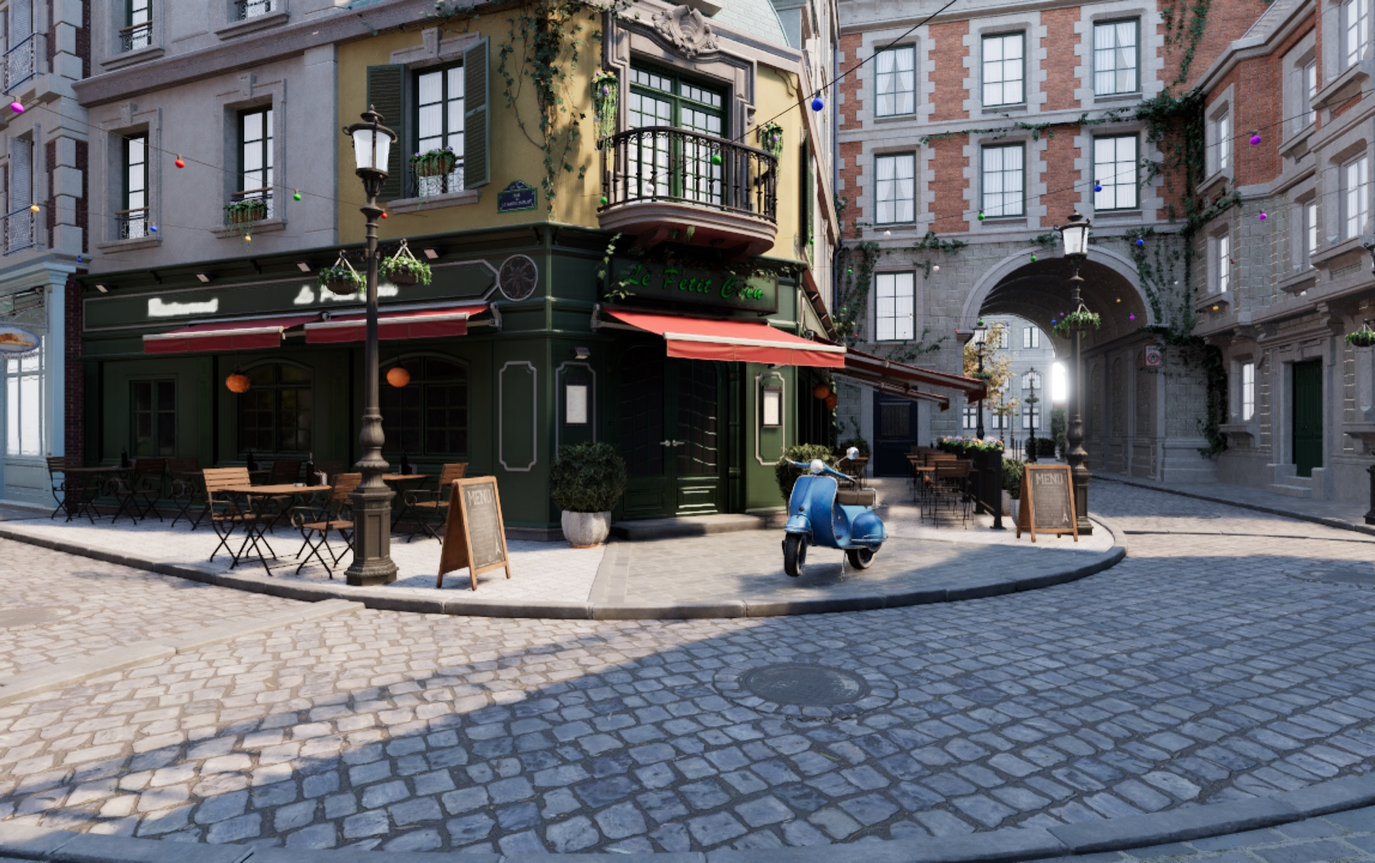
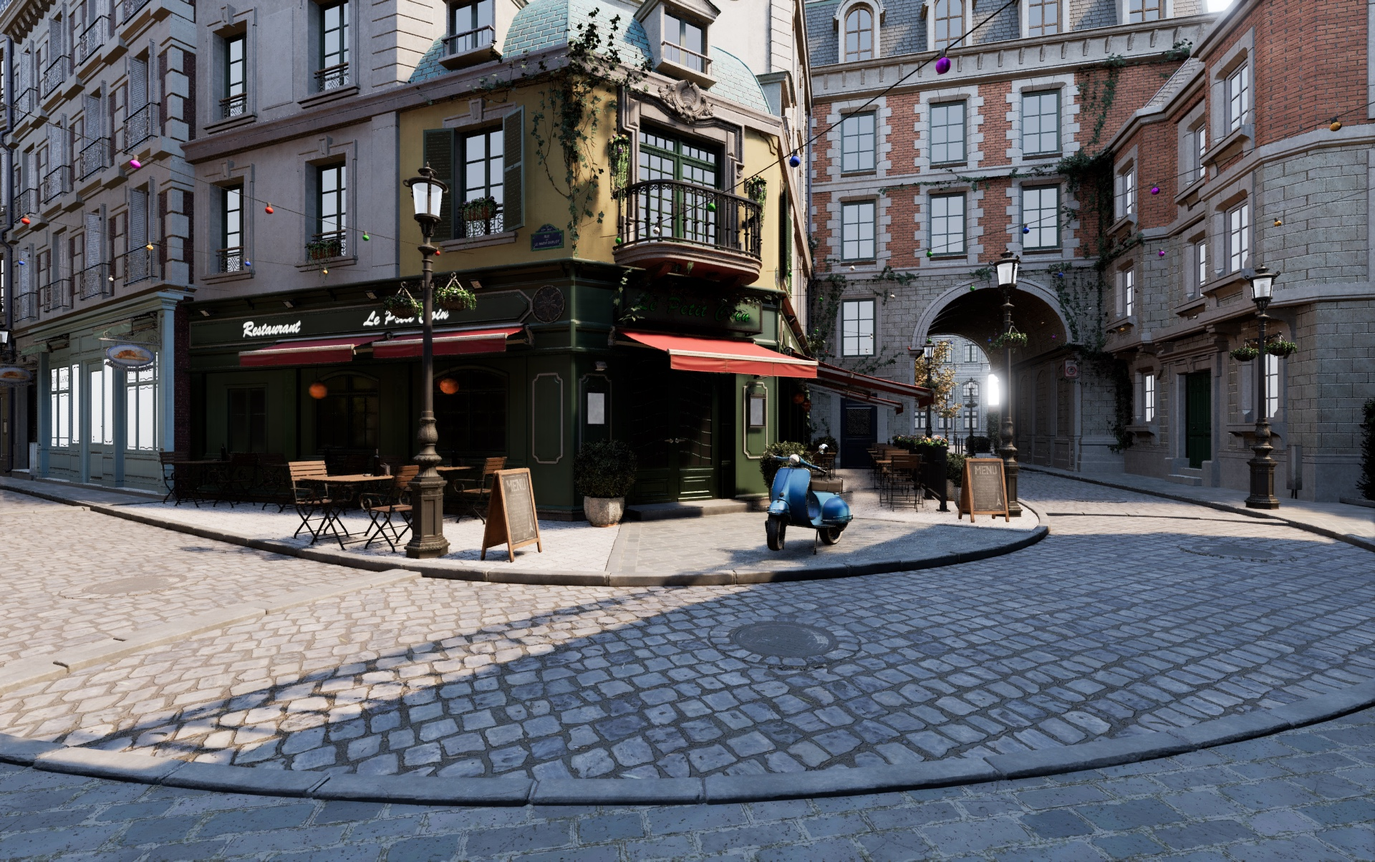
Update Bistro showcase and benchmark

diff --git a/README.md b/README.md
@@ -13,9 +13,9 @@ story, tests, benchmark, and reproducible evidence behind the macOS port.
 
 ![Native Metal path tracing in the Bistro demo](misc/metal_rt_bistro.jpg)
 
-*[Bistro demo](https://github.com/Jamsers/Bistro-Demo-Tweaked) rendered by this fork on Apple Silicon with native Metal ray
-tracing, **4 samples per pixel**, **2 bounces**, and **MetalFX Denoised
-Upscaling enabled**.*
+*[Bistro demo](https://github.com/Jamsers/Bistro-Demo-Tweaked) rendered by the
+current Apple Silicon build with native Metal ray tracing and MetalFX Denoised
+Upscaling enabled.*
 
 ## What it does
 
@@ -71,37 +71,35 @@ hardware, OS, renderer, capability gate, frame-time percentiles, and the GPU
 Pathtracer pass time. Generated results, logs, and builds are intentionally
 ignored.
 
-The results below are two-run means recorded with preview build `de7f299277`
-on 2026-07-18. Each row is one SPP/bounce configuration; the **bold row** is
-the exact **4 SPP / 2 bounce** setup used for the showcase images above.
+The results below are two-run means recorded with build `eeac9e05d` on
+2026-07-22. Each row uses 240 measured frames after warmup at 1920×1080; the
+**bold row** is the **4 SPP / 2 bounce** reference configuration.
 
-| SPP | Bounces | M5 FPS | M5 GPU pass | M3 FPS | M3 GPU pass | M5 vs M3 |
-| ---: | ---: | ---: | ---: | ---: | ---: | ---: |
-| 1 | 1 | 321.3 | 2.6 ms | 93.2 | 9.7 ms | 3.4× |
-| 1 | 2 | 262.6 | 3.4 ms | 66.1 | 14.3 ms | 4.0× |
-| 1 | 4 | 231.4 | 4.1 ms | 55.0 | 17.6 ms | 4.2× |
-| 4 | 1 | 102.1 | 9.7 ms | 23.6 | 41.8 ms | 4.3× |
-| **4** | **2** | **70.5** | **14.1 ms** | **15.9** | **62.2 ms** | **4.4×** |
-| 4 | 4 | 57.4 | 17.4 ms | 12.9 | 76.8 ms | 4.5× |
-| 16 | 1 | 25.0 | 39.9 ms | 5.8 | 171.0 ms | 4.3× |
-| 16 | 2 | 17.4 | 57.3 ms | 3.9 | 253.0 ms | 4.4× |
-| 16 | 4 | 14.4 | 69.2 ms | 3.2 | 310.9 ms | 4.5× |
+| SPP | Bounces | M5 FPS | M5 GPU pass |
+| ---: | ---: | ---: | ---: |
+| 1 | 1 | 184.4 | 3.8 ms |
+| 1 | 2 | 119.9 | 4.8 ms |
+| 1 | 4 | 120.0 | 5.6 ms |
+| 4 | 1 | 72.6 | 14.0 ms |
+| **4** | **2** | **53.8** | **18.4 ms** |
+| 4 | 4 | 49.1 | 20.2 ms |
+| 16 | 1 | 22.4 | 44.5 ms |
+| 16 | 2 | 15.5 | 64.2 ms |
+| 16 | 4 | 12.7 | 78.6 ms |
 
-"GPU pass" is the Pathtracer pass time alone; FPS is the whole frame. "M5 vs
-M3" compares mean FPS.
+"GPU pass" is the Pathtracer pass time alone; FPS is the whole frame. The
+first three configurations are constrained by display pacing on this desktop,
+so the GPU pass timing is the more reliable comparison there.
 
 | Machine | Chip | macOS | Metal RT |
 | --- | --- | --- | --- |
 | MacBook Pro (Mac17,2) | Apple M5 (Apple9) | 26.5.2 | enabled |
-| MacBook Air (Mac15,12) | Apple M3 (Apple9) | 26.5.1 | enabled |
-| MacBook Pro (MacBookPro14,1) | Intel i5-7360U | 13.6.6 | not supported |
 
-The Intel machine correctly did **not** produce an RT result: the preview
-binary was arm64-only and macOS rejected it. Intel Mac support is being worked
-on; do not treat the current fallback status as an RT benchmark. PRs that add your own
-benchmark results—with machine details, exact build/commit, matrix settings,
-and a concise result table—would be very welcome. Please leave generated logs,
-`benchmark-results/`, and binaries out of the commit.
+Intel Mac support is being worked on; do not treat a fallback result as an RT
+benchmark. PRs that add your own benchmark results—with machine details, exact
+build/commit, matrix settings, and a concise result table—would be very
+welcome. Please leave generated logs, `benchmark-results/`, and binaries out
+of the commit.
 
 ### Run it
 
